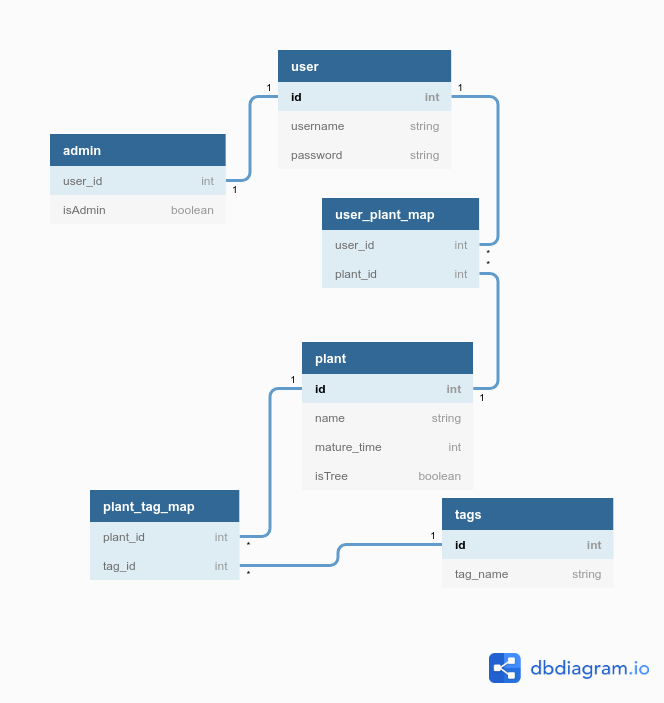
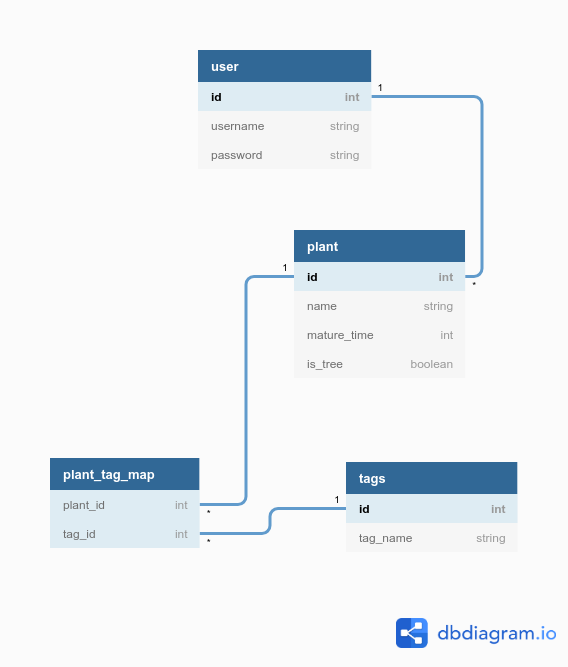
ready for Heroku deployment

Changed region(s): [[0.0599, 0.06, 0.9278, 0.8396], [0.6884, 0.9295, 0.9877, 0.9895], [0.4789, 0.6297, 0.5687, 0.6897]]

diff --git a/application/templates/plant_list.html b/application/templates/plant_list.html
@@ -1,0 +1,37 @@
+{% extends "layout.html" %}
+
+{% block body %}
+<style>
+table{
+    width:50%;
+    border-collapse: collapse;
+}
+th {
+    text-align: left;
+    background-color: #aaa;
+}
+tr:nth-child(even) {
+    background-color: #eee;
+}
+tr:nth-child(odd) {
+    background-color: #fff;
+}
+</style>
+
+<table>
+    <tr>
+        <th>Name </th>
+        <th>Mature time </th>
+        <th>Tree?</th>
+    </tr>
+    {% for plant in plants %}
+    <tr>
+        <td>{{ plant.name }}</td>
+        <td>{{ plant.mature_time }}</td>
+        {% if plant.is_tree == true %}
+        <td>Yes!</td>
+        {% endif %}
+    </tr>
+    {% endfor %}
+  </table>
+{% endblock %}

diff --git a/application/templates/new_plant.html b/application/templates/new_plant.html
@@ -1,0 +1,11 @@
+{% extends "layout.html" %}
+
+{% block body%}
+<p></p>
+<form method="POST" action="{{ url_for('plant_create') }}">
+        Name: <input type="text" name="name" required maxlength="50"/><br>
+        Matures in how many hours? <input type="number" name="grow_time_hrs" required min="0"/><br>
+        <input type="checkbox" name="is_tree"> the plant is a tree.<br> 
+        <input type="submit" value="Add"/>
+</form>
+{% endblock%}

diff --git a/application/templates/layout.html b/application/templates/layout.html
@@ -1,0 +1,18 @@
+<!DOCTYPE html>
+<html>
+  <head>
+    <meta charset="utf-8">
+    <title>A webpage</title>
+  </head>
+
+  <body>
+      <a href="{{ url_for('new_plant') }}">Add a plant here</a></li> 
+
+  <body>
+    {% block body %}
+      <p>
+        Content.
+      </p>
+    {% endblock %}
+  </body>
+</html>

diff --git a/application/templates/index.html b/application/templates/index.html
@@ -1,0 +1,7 @@
+{% extends "layout.html" %}
+
+{% block body %}
+  <p>
+    Hello world!
+  </p>
+{% endblock %}

diff --git a/application/views.py b/application/views.py
@@ -1,0 +1,25 @@
+from flask import redirect, render_template, request, url_for
+from application import app, db
+from application.data.models import Plant
+
+@app.route("/", methods=["GET"])
+def index():
+    return render_template("plant_list.html", plants = Plant.query.all())
+
+@app.route("/new_plant")
+def new_plant():
+    return render_template("new_plant.html")
+
+@app.route("/plants/", methods=["POST"])
+def plant_create():
+    name = request.form.get("name")
+    hrs = request.form.get("grow_time_hrs")
+    tree = False
+    if request.form.get("is_tree") == 'on' : tree = True
+
+    t = Plant(name, hrs, tree)
+
+    db.session().add(t)
+    db.session().commit()
+  
+    return redirect(url_for("index"))

diff --git a/application/__init__.py b/application/__init__.py
@@ -1,3 +1,22 @@
+# Initialise Flask
 from flask import Flask
-
 app = Flask(__name__)
+
+# Initialise SQLAlchemy
+from flask_sqlalchemy import SQLAlchemy
+
+# Configs for SQLAlchemy
+#  database to be used
+app.config["SQLALCHEMY_DATABASE_URI"] = "sqlite:///plants.db"
+#  log all statements to stderr
+app.config["SQLALCHEMY_ECHO"] = True
+
+# This is the object that we're importing everywhere and issuing commands to
+db = SQLAlchemy(app)
+
+from application import views
+
+from application.data import models
+
+# Create all tables
+db.create_all()

diff --git a/application/data/models.py b/application/data/models.py
@@ -1,0 +1,13 @@
+from application import db
+
+class Plant(db.Model):
+    id = db.Column(db.Integer, primary_key=True)
+    name = db.Column(db.String(50), nullable=False)
+    mature_time = db.Column(db.Integer, nullable=False)
+    is_tree = db.Column(db.Boolean, nullable=False)
+
+    def __init__(self, name, grow_time_hrs, is_tree=False):
+        self.name = name
+        self.mature_time = grow_time_hrs
+        # defaults to False
+        self.is_tree = is_tree

diff --git a/README.md b/README.md
@@ -10,8 +10,8 @@ In the game, plants and trees can be sown and cultivated from seed and may also 
 <sub>Tracking fruit<->tree relations specifically is not planned, as such occurrences are few and fairly obvious (apples from apple trees, coconuts from palm trees); similar functionality can be achieved with matching tags.</sub>
 <br><br>
 Current planned features<ul>
-  <li>login with username+password for item tracking and/or admin functionality</li>
-  <li>adding/editing/removing entries for plants and tags (admin-only?)</li>
+  <li>login with username+password for item tracking</li>
+  <li>adding/editing/removing entries for plants and tags</li>
   <li>searching for botanical items based on attributes (grow time/season/biome/other tags?)</li>
 </ul>
 <br>
